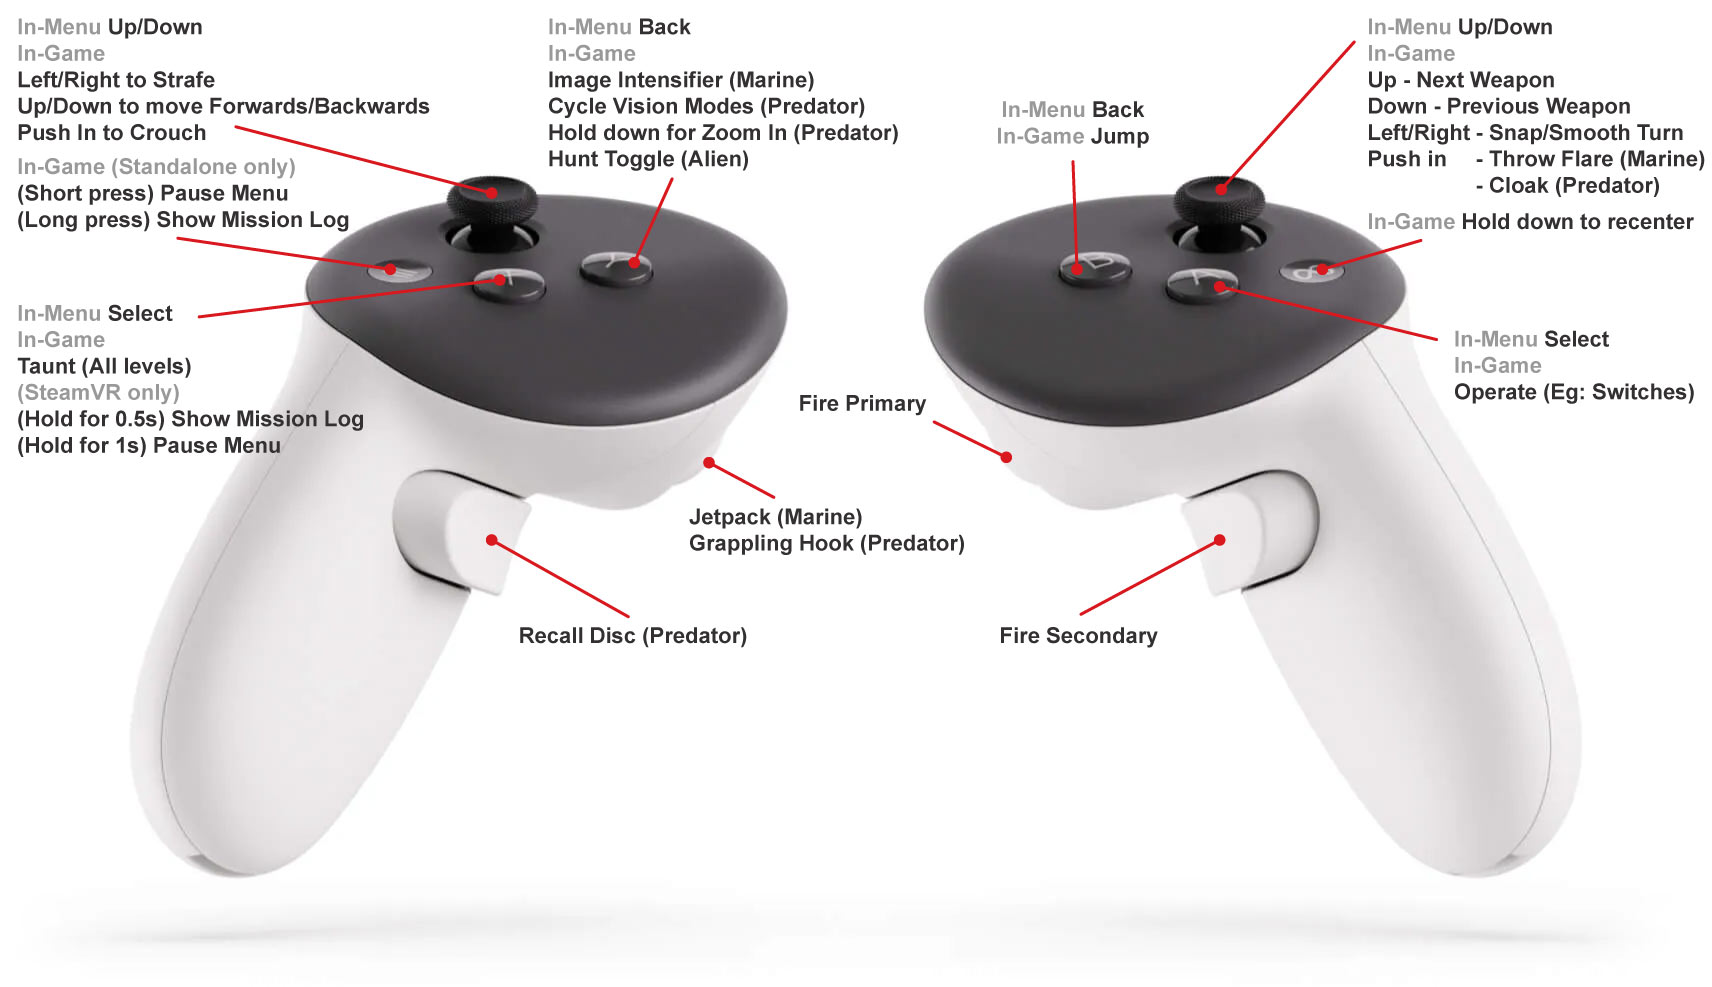
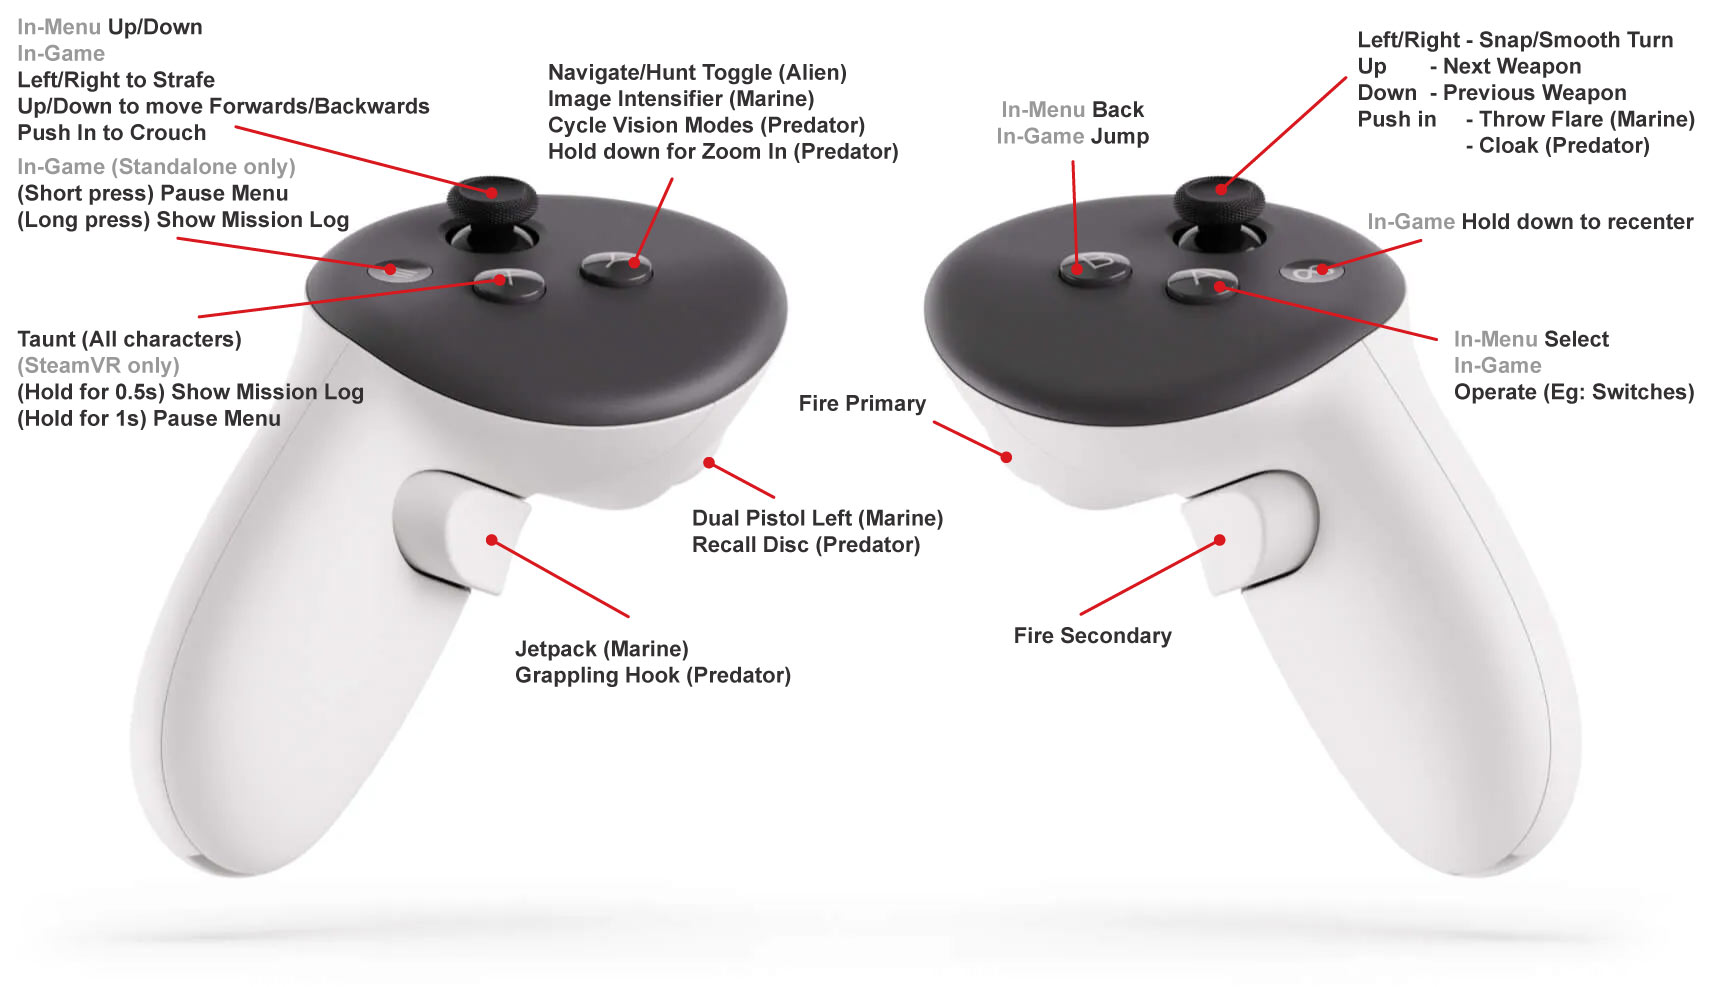
Update readme and controller mapping image.

diff --git a/README.md b/README.md
@@ -1,28 +1,44 @@
-# Aliens Versus Predator: VR and flat (non-VR)
+# Aliens Versus Predator: VR and Flat (non-VR)
 
 This is based on the code from _atsb_ over at [atsb/NakedAvP](https://github.com/atsb/NakedAVP) v1.2.3. Game asset files are NOT included. Instructions on how to add them can be found below.
 
 > [!TIP]
-> Check the new 0.7 update on releases page. PCVR support added! More details on the Releases page.
+> Check the new 1.0 update on releases page. Also an 7 min YouTube video about it can be found [here](https://youtu.be/Qk7m4Clpcos).
+
+## What's new in 1.0?
+- Alien wall walking FINALLY working. Walk to wall and press B to climb. You do need a strong stomach though, you have been warned!! There are vignette options in Controls > General VR Configuration.
+- Arms are separated now except Alien as it's a single model and not separate like the others, there's nothing I can do about it without replacing the game asset and I want to keep original files intact.
+- You have the option to hide Marines left arm if its distracting because the scale is quite wonky due to the way they were modelled for flat screens. Setting is in Controls > General VR Configuration > Show Marine Left Arm.
+- There is now a World Scale option for VR version so you're not so small anymore! It is set to 1.30 in Controls > General VR Configuration > Adjust World Scale. I don't recommend adjusting this to extreme as may break some things!
+- Gamepad controllers are now supported such as Xbox Series X on the flat versions. Also tested with Google Stadia.
+- Some buttons have changed for VR controllers so check the button mapping image further down this readme.
+- You can now customise buttons for VR controllers and gamepads. Go to Controls and choose which character you want to adjust.
+- Audio direction should be fixed now.
+- Pico support added.
+- Fix volume controls in menu.
+- Various fixes.
+
+> [!CAUTION]
+> If you find the controlelr buttons aren't right such as double action on the same button as I had to change the default layout slightly. It's best to reset to default and then customise if you need to.
 
 Here is list of compatible devices:
 
-| VR                                         |  Flat                                           |
+| **VR**                                     | **Flat**                                        |
 |--------------------------------------------|-------------------------------------------------|
-| - Quest 1                                  | - Windows x64 (Flat)                            |
-| - Quest 2                                  | - Windows x86 (Flat)                            |
-| - Quest 3                                  | - Windows arm64 (Flat)                          |
-| - Quest 3S                                 | - Linux x64 (Flat)                              |
-| - Quest Pro                                | - Linux x86 (Flat)                              |
-| - SteamVR Windows                          | - Linux arm64 (Flat)                            |
-| - SteamVR Linux                            | - Android 8 and above arm64 (Flat)              |
-| - Pico (Coming soon)                       | - Android 8 and above arm (Flat)                |
+| - Quest 1                                  | - Windows x64                                   |
+| - Quest 2                                  | - Windows x86                                   |
+| - Quest 3                                  | - Windows arm64                                 |
+| - Quest 3S                                 | - Linux x64                                     |
+| - Quest Pro                                | - Linux x86                                     |
+| - SteamVR Windows                          | - Linux arm64                                   |
+| - SteamVR Linux                            | - Android 8 and above arm64                     |
+| - Pico                                     | - Android 8 and above arm                       |
 
 > [!NOTE]
 > I decided to include flat versions so can multiplay on a local LAN against others including Quest/PCVR users!! Mac coming soon.
 
 > [!CAUTION]
-> This build is in playable state as Marine and Predator. I'm still looking at how to do the wall climbing on Aliens level. I'm not primarily a programmer, this was done with a lot of help from various ai like Claude, Copilot and Gemini.
+> This build is in playable state. I'm not primarily a programmer, this was done with a lot of help from various ai like Claude, Copilot and Gemini.
 
 ![Screenshot of Aliens Versus Predator: VR menu playing on Meta Quest 2](https://github.com/Bassquake/Aliens-Versus-Predator-VR/blob/master/captures/avpvr-quest-menu.jpg)
 
@@ -55,7 +71,7 @@ Copying the game assets. Its the same for all devices:
 
 ![Screenshot of assets files](https://github.com/Bassquake/Aliens-Versus-Predator-VR/blob/master/captures/assets-files.png)
 
-4. Files and folders all need to be lower case but not necessary for PCVR or Flat Windows/Linux, you can skip to step 6. So to make renaming easier and in one go, download the [lowercase.ps1](https://github.com/Bassquake/Aliens-Versus-Predator-VR/blob/master/assets/lowercase.ps1) powershell script or find it in the assets folder of this project. Place the script into the folder where the assets are.
+4. Files and folders all need to be lower case but not necessary for PCVR or Flat Windows/Linux, you can skip to step 6. To make renaming easier and in one go, download the [lowercase.ps1](https://github.com/Bassquake/Aliens-Versus-Predator-VR/blob/master/assets/lowercase.ps1) powershell script or find it in the assets folder of this project. Place the script into the folder where the assets are.
 5. Run the script in Powershell (type **lowercase.ps1**) and all files will now be lowercase. On windows, if you get a security error, use this command: **powershell -ExecutionPolicy Bypass -File .\lowercase.ps1**. On Linux, run it as: **pwsh ./lowercase.ps1**. (Install **pwsh** first if it's not there - **sudo apt install powershell** or via Snap, depending on distro.)
 6. Now plug your headset in via usb.
 7. Download the Aliens Versus Predator: VR release apk and install it with [SideQuest](https://sidequestvr.com/setup-howto) using the "Install APK file from folder on computer". (Your headset probably should be in [Developer](https://developers.meta.com/horizon/documentation/native/android/mobile-device-setup/) mode already):
@@ -68,7 +84,7 @@ Copying the game assets. Its the same for all devices:
 
 7. On the headset, run the **Aliens Versus Predator: VR** in Unknown Sources first, this will crash out as the assets haven't been added yet, this is normal and this sets the folders and their permissions in place. 
 8. Now still in SideQuest, go to "Manage files on the headset".
-9. Navigate to "sdcard/Android/data/com.bassquake.quest.avpvr/files". If installing on phone or tv, use the folder "sdcard/Android/data/com.bassquake.android.avpvr/files". (On build 0.5 and older the path is sdcard/Android/data/com.bassquake.avpvr/files).
+9. Navigate to "sdcard/Android/data/com.bassquake.quest.avpvr/files". If installing on phone or tv, use the folder "sdcard/Android/data/com.bassquake.android.avp/files". (On builds 0.6 to 1.0 the phone/tv path is sdcard/Android/data/com.bassquake.android.avpvr/files, and on 0.5 and older it was sdcard/Android/data/com.bassquake.avpvr/files).
 10. Copy all the game assets into that files folder. The layout should be like so on your device:
 
 ![Screenshot of assets location](https://github.com/Bassquake/Aliens-Versus-Predator-VR/blob/master/captures/sidequest_files.png)
@@ -82,9 +98,12 @@ To run Aliens Versus Predator on Windows/Linux, download the zip from Releases p
 ![Screenshot of assets location](https://github.com/Bassquake/Aliens-Versus-Predator-VR/blob/master/captures/assets-files-windows.png)
 
 ### Flat
-Where you've saved the game assets folder, copy the **avp_x64.exe** or **avp_x86.exe** or **avp_arm64.exe** into it and simply double click the exe to run. Same for Linux. For Android devices, install the apk either via SideQuest or from a usb plugged into a Android TV for example, then copy assets into the data folder like how it's done for Quest.
+Where you've saved the game assets folder, copy the **avp_x64.exe** or **avp_x86.exe** or **avp_arm64.exe** into it and simply double click the exe to run. Same for Linux. 
+
+For Android devices, install the apk **avp-x.x-android-arm64-v8a-release.apk** either via SideQuest or from a usb plugged into a Android TV for example, then copy assets into the data folder like how it's done for Quest. Folder is called **sdcard/Android/data/com.bassquake.android.avp/files** (Note its "avp" for flat builds, not "avpvr"). Connect a bluetooth keyboard and mouse to play!
+
 ### PCVR
-Where you've saved the game assets folder, copy the **avp_x64vr.exe** into it and then add to Steam Library as a non-Steam game:
+Where you've saved the game assets folder, copy the **avp_x64vr.exe** into it and then add to Steam Library as a non-Steam game, set it as "Include in VR Library" in the Steam Shortcut options:
 
 ![Screenshot of adding non-Steam game](https://github.com/Bassquake/Aliens-Versus-Predator-VR/blob/master/captures/steam-add-app.png)
 
@@ -96,7 +115,7 @@ Then name the shortcut seen here:
 
 ![Screenshot of Shortcut naming](https://github.com/Bassquake/Aliens-Versus-Predator-VR/blob/master/captures/steam-custom-name.png)
 
-To customise the images in Steam Library so it looks nicer like mine or use your own, download the extra zip file **steamvr-custom-images.zip** in Releases page for 0.7, unzip the images from steamvr-custom-images.zip somewhere. Then click the gear icon and select Properties:
+To customise the images in Steam Library so it looks nicer like mine or use your own, download the extra zip file **steamvr-custom-images.zip** in Releases page for 1.0, unzip the images from steamvr-custom-images.zip somewhere. Then click the gear icon and select Properties:
 
 ![Screenshot of Steam options](https://github.com/Bassquake/Aliens-Versus-Predator-VR/blob/master/captures/steam-add-options.png)
 
@@ -127,23 +146,25 @@ PS: Be aware I may rename the folder **cd_tracks** to **music** at some point.
 > [!NOTE]
 > If you have Manual Reload on in the Controls setting of the game, to trigger it, you almost touch controllers close together.
 
-I will probably add ability to customise all these.
-
 ### For flat
 
-Flat versions uses standard keyboard and mouse or joystick. They can be customised in the game. 
+Flat versions uses standard keyboard and mouse or joystick (Gamepads). They can be customised in the game under **Controls**. 
 
 > [!NOTE]
 > You may have to add WASD yourself as the game originally uses arrow keys.
 
+Gamepad controllers use the following by default:
+![Gamepad controller layout](https://github.com/Bassquake/Aliens-Versus-Predator-VR/blob/master/captures/avpvr-controllers-gamepad.jpg)
+
 ## Extra features
-- Can choose different frame rate in Video/Video Options, runs fine in 120fps mode!
-- Can turn on/off the cross-hair in Video/Video Options.
-- Frame rate counter can be toggled in Video/Video Options.
-- Antialiasing options added for MSAA in Video/Video Options.
-- Texture Filtering options added in Video/Video Options.
-- Apparently works with the [HD AvP Redux Mod](https://www.moddb.com/mods/aliens-versus-predator-classic-redux/news/avp-classic-redux-20-released) pack! Edit 1: Seems there’s an issue with the HUD and crosshair for Marine with the Redux Mod. Edit 2: Fixed in 0.7.
-- Cheat modes can be toggled now for those faint of heart!
+- World Scale added so you're taller in VR.
+- Can choose different refresh rate for VR in Audio/Video Options, runs fine in 120fps mode!
+- Can turn on/off the cross-hair in Audio/Video Options.
+- Frame rate counter can be toggled in Audio/Video Options.
+- Antialiasing options added for MSAA in Audio/Video Options.
+- Texture Filtering options added in Audio/Video Options.
+- Works with the [HD AvP Redux Mod](https://www.moddb.com/mods/aliens-versus-predator-classic-redux/news/avp-classic-redux-20-released) pack! Edit 1: Seems there’s an issue with the HUD and crosshair for Marine with the Redux Mod. Edit 2: Fixed in 0.7. Note: Some 3D objects have missing shapes. This is not the games fault, it seems the HD Redux is incomplete!
+- Cheat modes can be toggled for those faint of heart!
 
 ## To do
 - ~~Fix Battery Saver crash.~~ Fixed.
@@ -159,8 +180,7 @@ Flat versions uses standard keyboard and mouse or joystick. They can be customis
 - ~~Add Quest 1 compatibility.~~ Added.
 - ~~Add recalibrate option to right long press Meta button.~~ Added.
 - ~~Add PCVR.~~ Added.
-- To add correct wall walking for Aliens on Quest. Works fine on Windows. 
-- Add option for left handed users.
-- Add ability to customise controller key mapping.
-- Customise some objects such as marines weapons as it has 2 hands attached to the main weapon which is a bit weird.
+- ~~To add correct wall walking for Aliens on Quest.~~ Fixed.
+- ~~Add ability to customise controller key mapping.~~ Added.
+- Add option for left handed users? Not sure if possible as cant flip 3d objects.
 - Add shadow/fog effects?
